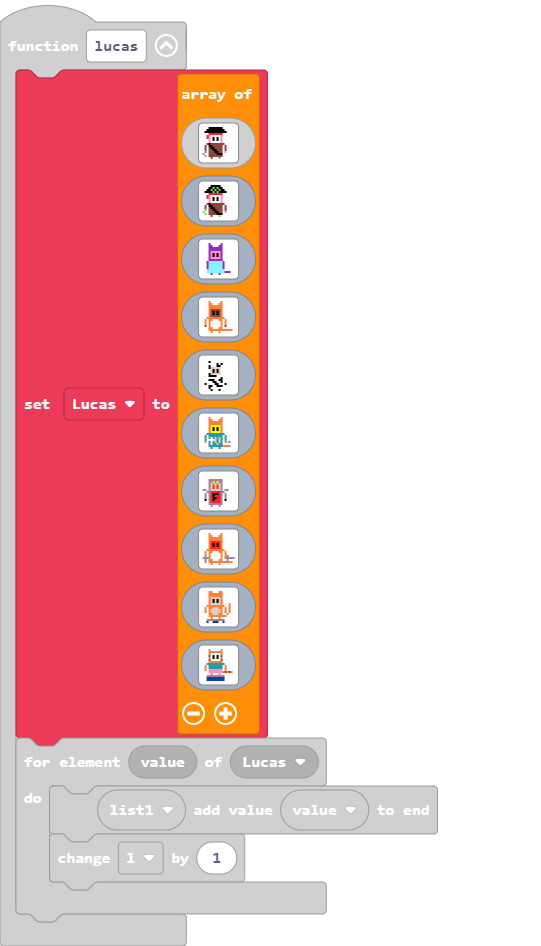
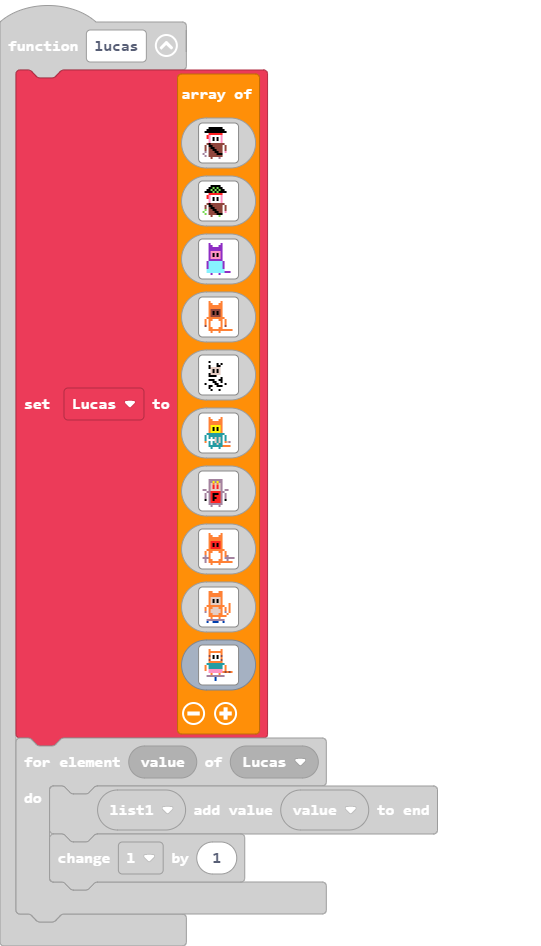
Update main.blocks, main.ts

Changed region(s): [[0.3253, 0.1839, 0.4732, 0.6744], [0.3845, 0.7051, 0.414, 0.7357]]

diff --git a/main.ts b/main.ts
@@ -637,8 +637,8 @@ function lucas () {
         . . . 3 3 3 3 3 3 3 4 e 4 e 4 . 
         . . . . 4 . . . 4 . . . . . . . 
         . . b b b b b b b b b . . . . . 
-        . . 8 8 8 8 8 8 8 8 8 . . . . . 
-        . . 8 8 8 8 8 8 8 8 8 . . . . . 
+        . . . . . . 8 . . . . . . . . . 
+        . . . . . . 8 . . . . . . . . . 
         `
     ]
     for (let value of Lucas) {
